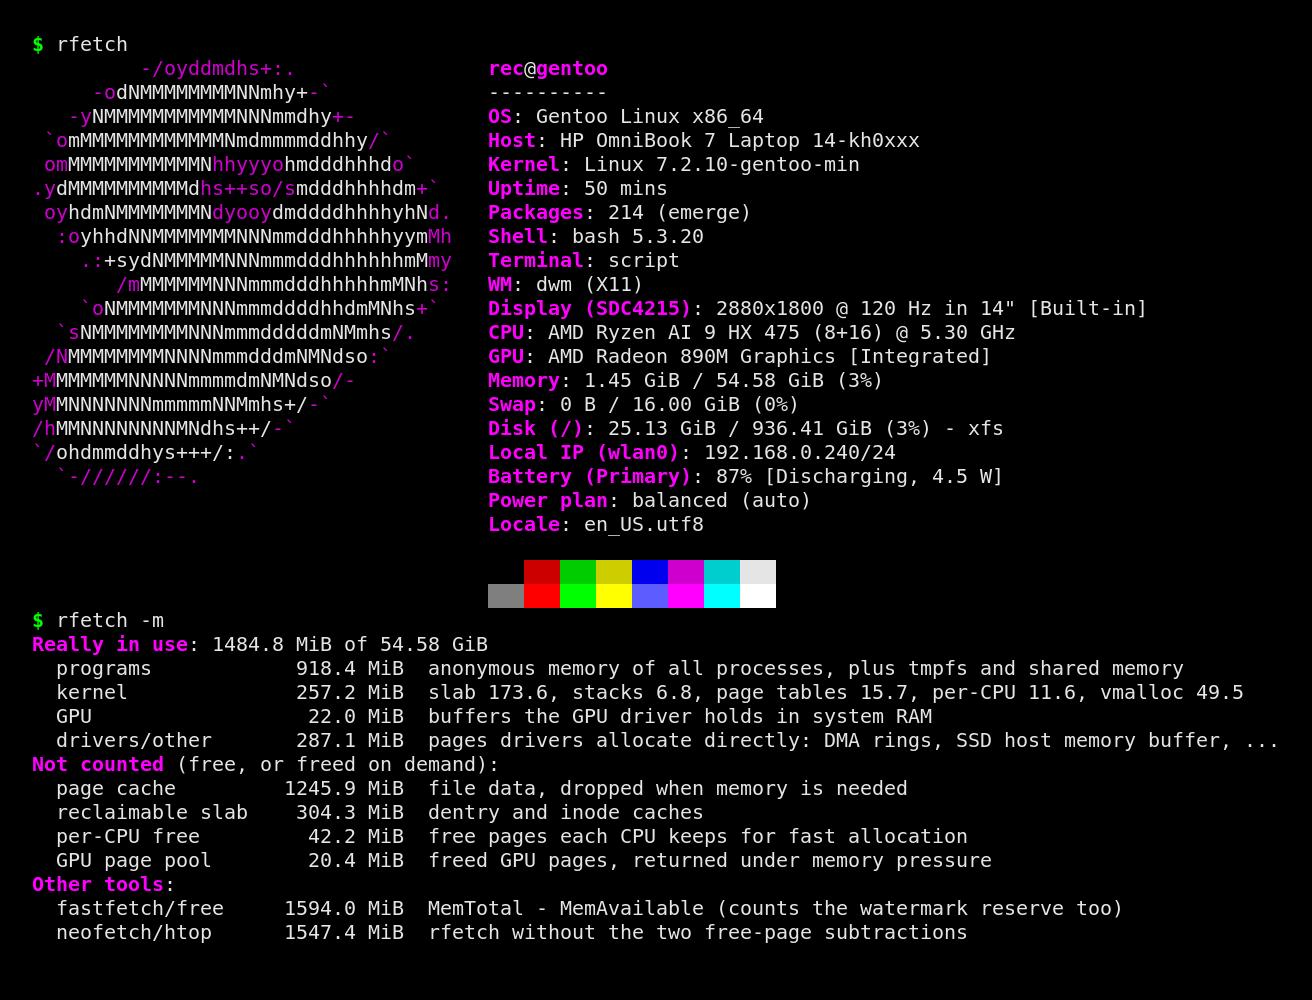
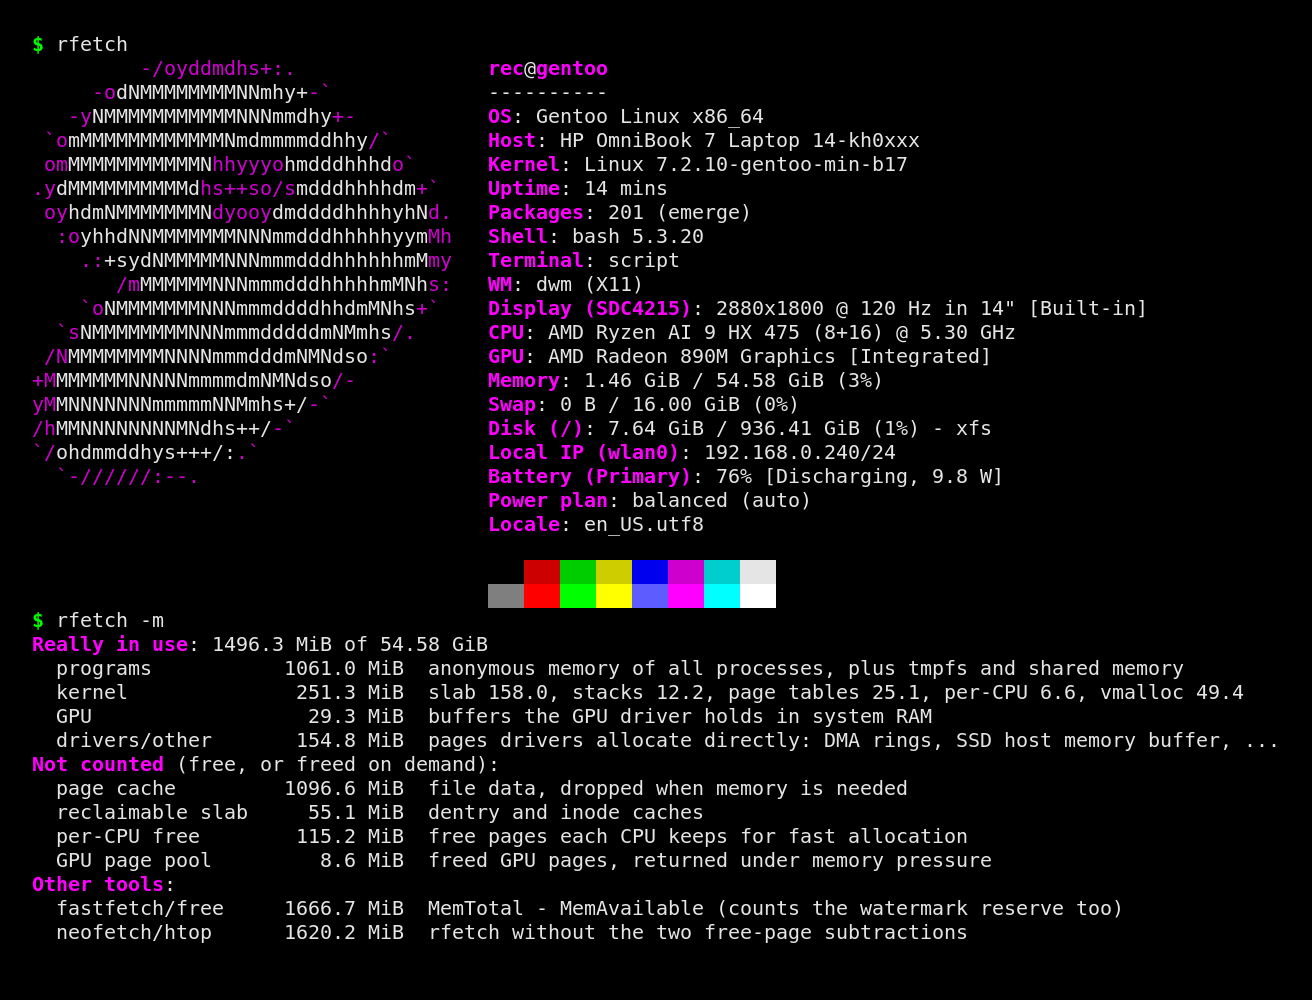
Disk used on XFS without the filesystem's metadata reservations
statfs counts the blocks XFS reserves per allocation group for its
rmap, refcount and free-inode btrees as used (17.9 of 25.6 GiB on a
937 GiB disk). rfetch computes them from XFS_IOC_FSGEOMETRY with the
kernel's own formulas and subtracts them: 7.64 GiB against 7.61 GiB
from GETFSMAP.

diff --git a/rfetch.c b/rfetch.c
@@ -12,6 +12,10 @@
  * pressure. fastfetch and free(1) use MemTotal - MemAvailable, which also
  * counts the kernel's watermark reserve as used.
  *
+ * Disk "used" on XFS leaves out the blocks the filesystem reserves in every
+ * allocation group for its own btrees, which statfs (df) counts as used; see
+ * xfs_reserved_blocks().
+ *
  * Usage: rfetch [-m] [-n]   -m: memory breakdown   -n: no logo
  */
 #define _GNU_SOURCE
@@ -683,12 +687,76 @@ static void f_memory(void)
 	}
 }
 
+/* XFS geometry (XFS_IOC_FSGEOMETRY, v5 layout; any user may ask). */
+struct xfs_geom {
+	uint32_t blocksize, rtextsize, agblocks, agcount, logblocks, sectsize, inodesize, imaxpct;
+	uint64_t datablocks, rtblocks, rtextents, logstart;
+	unsigned char uuid[16];
+	uint32_t sunit, swidth;
+	int32_t version;
+	uint32_t flags, logsectsize, rtsectsize, dirblocksize, logsunit, sick, checked, rgextents, rgcount;
+	uint64_t rtstart, rtreserved, reserved[14];
+};
+#define XFS_IOC_FSGEOMETRY _IOR('X', 126, struct xfs_geom)
+#define XFS_GEOM_V5SB (1u << 15)
+#define XFS_GEOM_FINOBT (1u << 17)
+#define XFS_GEOM_RMAPBT (1u << 19)
+#define XFS_GEOM_REFLINK (1u << 20)
+
+/* Blocks of a btree holding `recs` records at minimum fill (the kernel's xfs_btree_calc_size). */
+static uint64_t btree_blocks(uint64_t recs, unsigned leafmin, unsigned nodemin)
+{
+	uint64_t level = recs, blocks = 0;
+	for (int l = 0; level > 1; l++) {
+		unsigned m = l ? nodemin : leafmin;
+		level = (level + m - 1) / m;
+		blocks += level;
+	}
+	return blocks;
+}
+
+/* Blocks XFS holds back in every allocation group so its reverse-mapping, refcount
+ * and free-inode btrees can always grow (the kernel's per-AG reservations). statfs
+ * counts them as used; on a 937 GiB disk they are 18 GiB. Same formulas as
+ * xfs_rmapbt/refcountbt/finobt_calc_reserves; checked against GETFSMAP. */
+static uint64_t xfs_reserved_blocks(const char *path)
+{
+	int fd = open(path, O_RDONLY | O_DIRECTORY | O_CLOEXEC);
+	struct xfs_geom g;
+	memset(&g, 0, sizeof g);
+	int ok = fd >= 0 && !ioctl(fd, XFS_IOC_FSGEOMETRY, &g);
+	if (fd >= 0) close(fd);
+	if (!ok || !g.agcount || !g.agblocks || !g.blocksize || !g.inodesize) return 0;
+	unsigned room = g.blocksize - ((g.flags & XFS_GEOM_V5SB) ? 56 : 16); /* short btree block header */
+	unsigned rmap_leaf = room / 24 / 2, rmap_node = room / 44 / 2;   /* record; low+high key and pointer */
+	unsigned refc_leaf = room / 12 / 2, refc_node = room / 8 / 2;
+	unsigned ino_leaf = room / 16 / 2, ino_node = room / 8 / 2;
+	uint64_t inopblock = g.blocksize / g.inodesize, total = 0;
+	unsigned agbits = 0; /* AG number of the internal log: fsblock = agno << log2(agblocks rounded up) | agbno */
+	while ((1ull << agbits) < g.agblocks) agbits++;
+	for (uint32_t ag = 0; ag < g.agcount; ag++) {
+		uint64_t len = ag + 1 < g.agcount ? g.agblocks : g.datablocks - (uint64_t)(g.agcount - 1) * g.agblocks;
+		if (g.logstart && (g.logstart >> agbits) == ag && len > g.logblocks) len -= g.logblocks;
+		if (g.flags & XFS_GEOM_RMAPBT) {
+			uint64_t r = btree_blocks(len, rmap_leaf, rmap_node);
+			total += r > len / 100 ? r : len / 100;
+		}
+		if (g.flags & XFS_GEOM_REFLINK) total += btree_blocks(len, refc_leaf, refc_node);
+		if (g.flags & XFS_GEOM_FINOBT) total += btree_blocks(len * inopblock / 64, ino_leaf, ino_node);
+	}
+	return total;
+}
+
 static void f_disk(void)
 {
 	struct statvfs v;
 	struct statfs f;
 	if (statvfs("/", &v) || statfs("/", &f)) return;
 	double tot = (double)v.f_blocks * v.f_frsize, used = (double)(v.f_blocks - v.f_bfree) * v.f_frsize;
+	if ((unsigned long)f.f_type == 0x58465342) { /* XFS: leave out its metadata reservations */
+		double resv = (double)xfs_reserved_blocks("/") * v.f_frsize;
+		used = used > resv ? used - resv : 0;
+	}
 	static const struct { unsigned long m; const char *n; } fs[] = {
 		{ 0x58465342, "xfs" }, { 0xEF53, "ext4" }, { 0x9123683E, "btrfs" }, { 0xF2F52010, "f2fs" }, { 0x2FC12FC1, "zfs" },
 		{ 0xCA451A4E, "bcachefs" }, { 0x01021994, "tmpfs" }, { 0x794C7630, "overlay" }, { 0x6E736673, "nilfs2" } };

diff --git a/README.md b/README.md
@@ -1,14 +1,15 @@
 # rfetch
 
-A system information tool in the style of fastfetch, in one C file, that reports the memory that is really in use. fastfetch, free and neofetch count some memory that is actually free as "used": the free pages each CPU keeps for fast allocation, the GPU driver's pool of freed pages and, in fastfetch's case, the kernel's watermark reserve. rfetch subtracts them. `rfetch -m` shows where the memory goes. It shows the same fields as fastfetch's default output and runs in about a third of its time, because it doesn't start other programs or load libraries. It reads `/proc`, `/sys`, the DRM driver and the CPU's CPUID instruction directly.
+A system information tool in the style of fastfetch, in one C file, that reports the memory and disk space that are really in use. fastfetch, free and neofetch count some memory that is actually free as "used": the free pages each CPU keeps for fast allocation, the GPU driver's pool of freed pages and, in fastfetch's case, the kernel's watermark reserve. rfetch subtracts them. On XFS it also leaves out the space the filesystem holds back for its own metadata, which `df` and fastfetch count as used (18 of 25.6 GiB on the laptop). `rfetch -m` shows where the memory goes. It shows the same fields as fastfetch's default output and runs in about a third of its time, because it doesn't start other programs or load libraries. It reads `/proc`, `/sys`, the DRM driver and the CPU's CPUID instruction directly.
 
 **Status:** in daily use on an HP OmniBook 7 (Ryzen AI 9 HX 475, Radeon 890M) with Gentoo and dwm, where it replaced fastfetch. Linux only; the package count is Gentoo's (`/var/db/pkg`).
 
-![Terminal output on a black background. "rfetch" prints the Gentoo logo in magenta and white, and next to it: rec@gentoo; OS: Gentoo Linux x86_64; Host: HP OmniBook 7 Laptop 14-kh0xxx; Kernel: Linux 7.2.10-gentoo-min; Uptime: 50 mins; Packages: 214 (emerge); Shell: bash 5.3.20; Terminal: script; WM: dwm (X11); Display (SDC4215): 2880x1800 @ 120 Hz in 14" [Built-in]; CPU: AMD Ryzen AI 9 HX 475 (8+16) @ 5.30 GHz; GPU: AMD Radeon 890M Graphics [Integrated]; Memory: 1.45 GiB / 54.58 GiB (3%); Swap: 0 B / 16.00 GiB (0%); Disk (/): 25.13 GiB / 936.41 GiB (3%) - xfs; Local IP (wlan0): 192.168.0.240/24; Battery (Primary): 87% [Discharging, 4.5 W]; Power plan: balanced (auto); Locale: en_US.utf8; and two rows of colour blocks. "rfetch -m" then prints "Really in use: 1484.8 MiB of 54.58 GiB", split into programs 918.4 MiB, kernel 257.2 MiB (slab 173.6, stacks 6.8, page tables 15.7, per-CPU 11.6, vmalloc 49.5), GPU 22.0 MiB and drivers/other 287.1 MiB; then what isn't counted: page cache 1245.9 MiB, reclaimable slab 304.3 MiB, per-CPU free 42.2 MiB, GPU page pool 20.4 MiB; and what other tools would show: fastfetch/free 1594.0 MiB, neofetch/htop 1547.4 MiB. Claude Code was running, which is most of the 918 MiB of programs; the terminal shows as "script" because the screenshot was rendered from output captured through script(1).](docs/images/rfetch.png)
+![Terminal output on a black background. "rfetch" prints the Gentoo logo in magenta and white, and next to it: rec@gentoo; OS: Gentoo Linux x86_64; Host: HP OmniBook 7 Laptop 14-kh0xxx; Kernel: Linux 7.2.10-gentoo-min-b17; Uptime: 14 mins; Packages: 201 (emerge); Shell: bash 5.3.20; Terminal: script; WM: dwm (X11); Display (SDC4215): 2880x1800 @ 120 Hz in 14" [Built-in]; CPU: AMD Ryzen AI 9 HX 475 (8+16) @ 5.30 GHz; GPU: AMD Radeon 890M Graphics [Integrated]; Memory: 1.46 GiB / 54.58 GiB (3%); Swap: 0 B / 16.00 GiB (0%); Disk (/): 7.64 GiB / 936.41 GiB (1%) - xfs; Local IP (wlan0): 192.168.0.240/24; Battery (Primary): 76% [Discharging, 9.8 W]; Power plan: balanced (auto); Locale: en_US.utf8; and two rows of colour blocks. "rfetch -m" then prints "Really in use: 1496.3 MiB of 54.58 GiB", split into programs 1061.0 MiB, kernel 251.3 MiB (slab 158.0, stacks 12.2, page tables 25.1, per-CPU 6.6, vmalloc 49.4), GPU 29.3 MiB and drivers/other 154.8 MiB; then what isn't counted: page cache 1096.6 MiB, reclaimable slab 55.1 MiB, per-CPU free 115.2 MiB, GPU page pool 8.6 MiB; and what other tools would show: fastfetch/free 1666.7 MiB, neofetch/htop 1620.2 MiB. Claude Code was running, which is most of the 1061 MiB of programs; the terminal shows as "script" because the screenshot was rendered from output captured through script(1). After a fresh boot, with only a terminal open, the same laptop shows 320.78 MiB.](docs/images/rfetch.png)
 
 ## Features
 
 - **Memory as it really is.** "Used" is `MemTotal - MemFree - Buffers - Cached - SReclaimable + Shmem` (what neofetch and htop count), minus two kinds of free memory that `/proc/meminfo` doesn't call free (see How it works). On the laptop it was 110–135 MiB lower than fastfetch with Claude Code running; the gap shrinks when the system is quieter, because fewer free pages wait on the per-CPU lists.
+- **Disk as it really is.** On XFS, "used" leaves out the blocks the filesystem reserves in every allocation group so its reverse-mapping, reference-count and free-inode btrees can always grow. `df` counts them as used: on the laptop's 937 GiB disk that is 17.9 GiB of a reported 25.6 GiB, while the files and metadata take 7.6 GiB. Other filesystems show the usual figure.
 - **`rfetch -m`: where the memory goes.** It shows four parts: programs (anonymous memory plus tmpfs), the kernel (slab, stacks, page tables, per-CPU areas, vmalloc), GPU buffers in system RAM, and memory drivers took directly. Then what isn't counted and why, and what fastfetch and neofetch would show for the same moment.
 - **fastfetch's fields:** user and host, OS, host model, kernel, uptime, package count, shell with version, terminal, window manager, each display's resolution, refresh rate and size, CPU with core types (`8+16` = 8 threads on full cores and 16 on compact ones) and top clock, GPU with its marketing name, memory, swap, root disk, local IP, battery with the draw in watts while discharging, and locale.
 - **The power plan** from the `powerprofile` script's state file (`/run/powerprofile`), when it exists.
@@ -41,6 +42,7 @@ Colours are on when the output is a terminal. `NO_COLOR=1` turns them off and `C
   - GPU drivers that use TTM (amdgpu, radeon, nouveau, xe) keep freed pages in a pool for the next buffer; the kernel takes them back under memory pressure. Newer kernels report them as `GPUReclaim` in meminfo.
   - fastfetch and free use `MemTotal - MemAvailable`. MemAvailable also leaves out the reserve the kernel keeps for emergencies (the watermarks), so their "used" includes it.
   - Not subtracted: memory a driver allocated on its own, such as an SSD's host memory buffer (64 MiB on a DRAM-less SSD) or network DMA rings. It is really in use, so it shows under drivers/other.
+- **Disk.** `statfs` for the total and the free blocks. On XFS, one `XFS_IOC_FSGEOMETRY` ioctl (allowed for any user) gives the allocation group size and count, the internal log and the feature flags, and rfetch computes the per-group reservations the way the kernel does when it mounts the filesystem (`xfs_rmapbt_calc_reserves`, `xfs_refcountbt_calc_reserves`, `xfs_finobt_calc_reserves`): the largest each btree can get at minimum fill, and for the reverse-mapping btree at least 1% of the group. The group holding the log is reduced by its size. That total is subtracted from statfs's used blocks. Counting the files themselves would mean walking every inode, which takes seconds; the exact map (`GETFSMAP`) needs root.
 - **No other programs.** The shell version comes from its package (`app-shells/bash-5.3_p20` gives 5.3.20). The terminal and window manager come from the process tree: the shell's parent is the terminal, and the terminal's parent is usually the window manager. Only when it isn't does rfetch look through your own processes for a known window manager.
 - **Display** from the DRM driver: the connector, encoder and CRTC ioctls give the mode that is actually on the screen. The connector query passes a non-zero mode count, so the kernel returns its cached state and never probes the monitor. The name and size come from the EDID in sysfs. Without a running X or Wayland session the display line is skipped, so that rfetch never briefly becomes DRM master on a text console.
 - **CPU** name from CPUID. Core types are grouped by each CPU's maximum clock in cpufreq.
@@ -64,7 +66,8 @@ A dynamic build of rfetch takes 2.0 ms per run, so the static one is the default
 
 ## Verification
 
-- Package count against `ls -d /var/db/pkg/*/* | wc -l`: both 214.
+- Package count against `ls -d /var/db/pkg/*/* | wc -l`: both 214, and later both 201.
+- Disk against XFS's own space map (`GETFSMAP` as root, which lists every allocated extent): 936.87 GiB of data blocks, 928.80 GiB free, 0.46 GiB journal, so 7.61 GiB allocated to files (7.4), inode chunks (0.17) and btrees; rfetch shows 7.64 GiB. `df` shows 26 GiB for the same filesystem. The computed reservation (24 groups of 10233098 blocks, reflink, rmapbt and finobt on) is 17.94 GiB, the gap between the two.
 - Every field compared with fastfetch's output on the same machine: OS, host, kernel, uptime, packages, shell version, display (SDC4215, 2880x1800, 120 Hz, 14"), CPU (8+16, 5.30 GHz), GPU name, swap, disk, IP, battery and locale match.
 - Memory: the "fastfetch/free" line of `rfetch -m` against `free -k` run right after it, three times: 1567.4/1570.1, 1570.9/1571.2, 1571.2/1571.6 MiB (the difference is what changed between the two commands). drivers/other is the remainder after the parts meminfo names.
 - GPU names for other cards through the same lookup: NVIDIA GeForce RTX 4090, Intel Arc A770, Intel Arc Graphics, AMD Radeon RX 7900 XTX, AMD Radeon RX 6800 XT.
@@ -75,6 +78,7 @@ A dynamic build of rfetch takes 2.0 ms per run, so the static one is the default
 - Packages are counted for Portage only.
 - The terminal is whatever the shell's parent process is called: a terminal that starts the shell through a helper shows the helper's name.
 - Fields are fixed in the source; there is no configuration file.
+- The XFS reservation follows the formulas of Linux 6.x/7.x with the v5 (CRC) on-disk format. If a future kernel changes them, the disk figure drifts by the difference; on other filesystems nothing is subtracted.
 
 ## License
 
